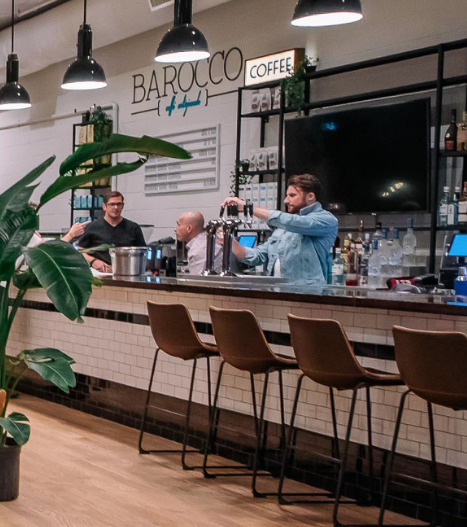
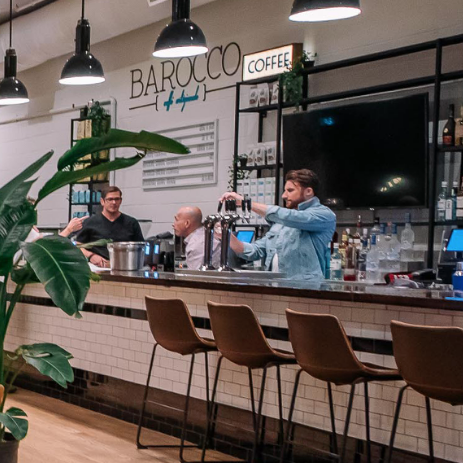
adjust small image sizes

diff --git a/src/index.html b/src/index.html
@@ -346,7 +346,7 @@
         </div>
         <div class="amenity-cell">
           <div>
-            <img src="assets/images/communal.png" alt="">
+            <img src="assets/images/fuzzies.png" alt="">
           </div>
           <div>
             Warm Fuzzies
